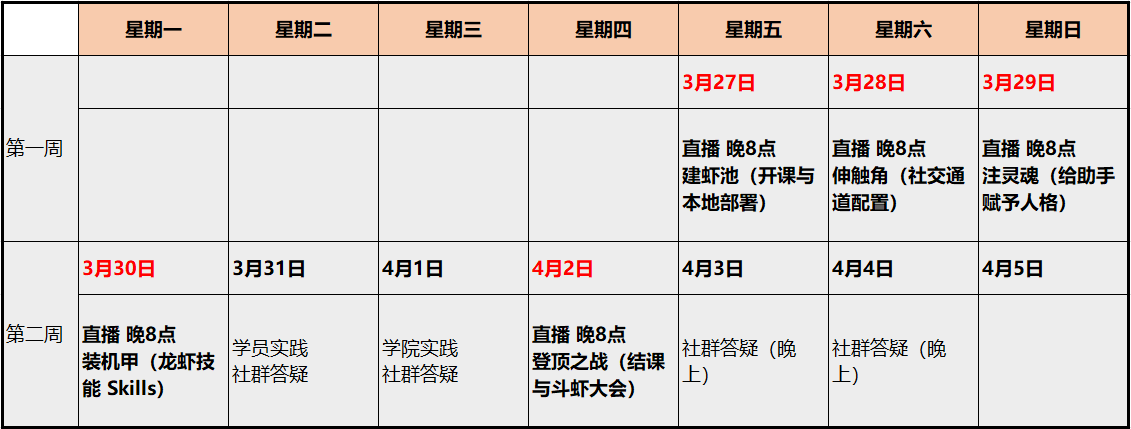
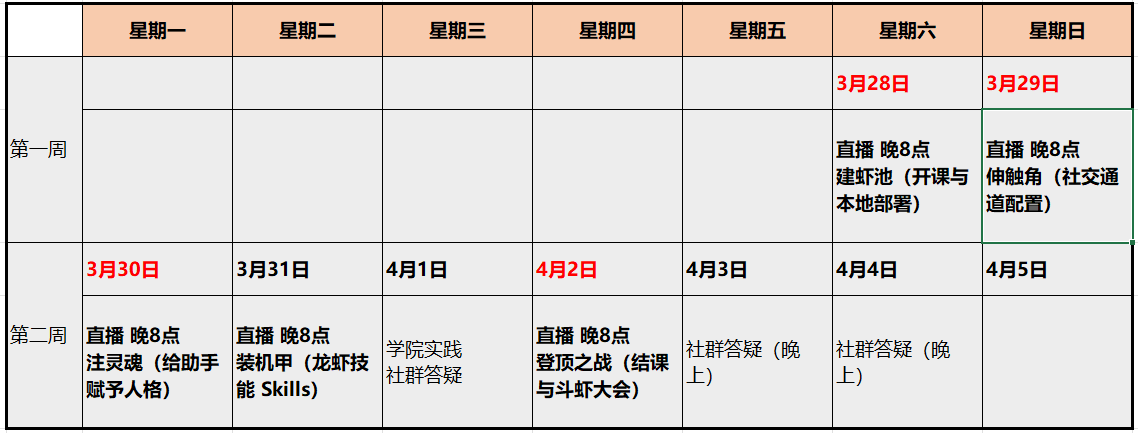
update kechengbiao

Changed region(s): [[0.0, 0.0, 1.0, 1.0], [0.4642, 0.7273, 0.8355, 0.9394]]

diff --git a/docs/academy/lobster-breakice.md b/docs/academy/lobster-breakice.md
@@ -81,7 +81,7 @@ layout: doc
 
 告别知识焦虑，从环境配置到真正落地，这是你离 AI 最近的一次。
 
-* 📅 **开营时间**：**3 月 27 号 晚上 8:00** 准时发车
+* 📅 **开营时间**：**3 月 28 号 晚上 8:00** 准时发车
 * 🦞 **龙虾品种**：学员可自由选择**原版（OpenClaw 官方）**或**中国社区版**
 * 💡 **学习保障**：直播回看 + 社群答疑 + 优秀作业奖学金
 
